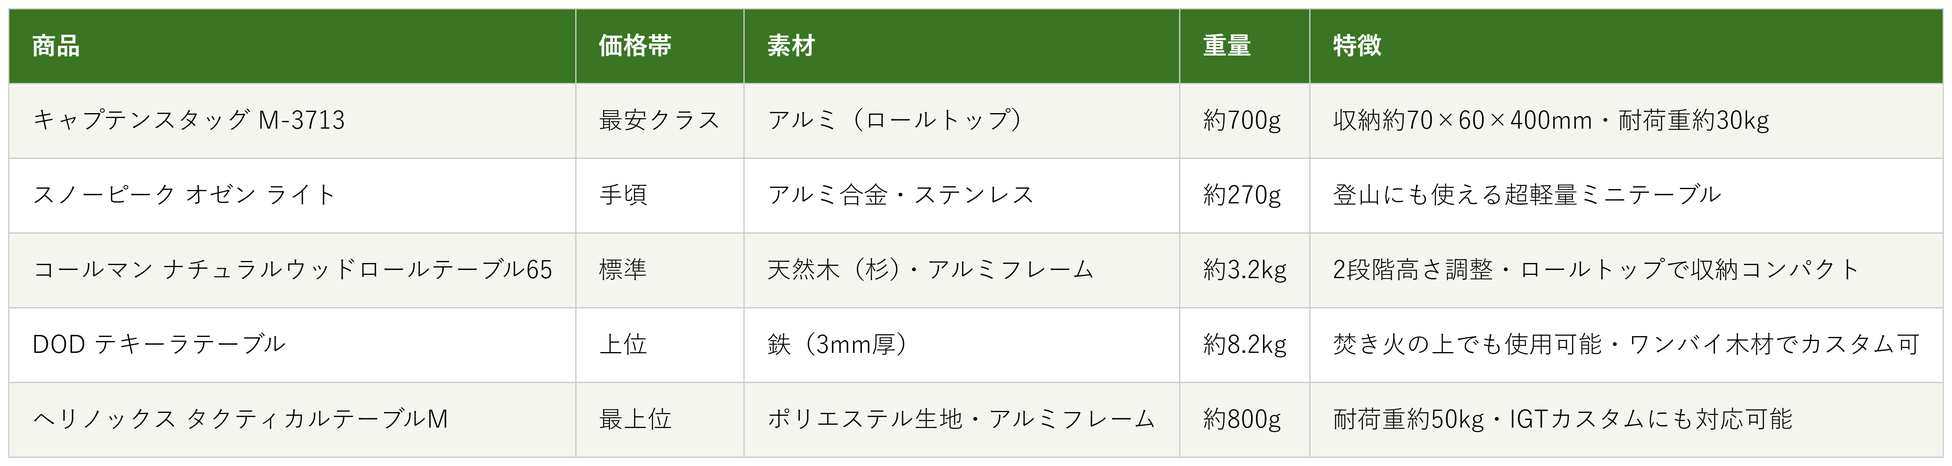
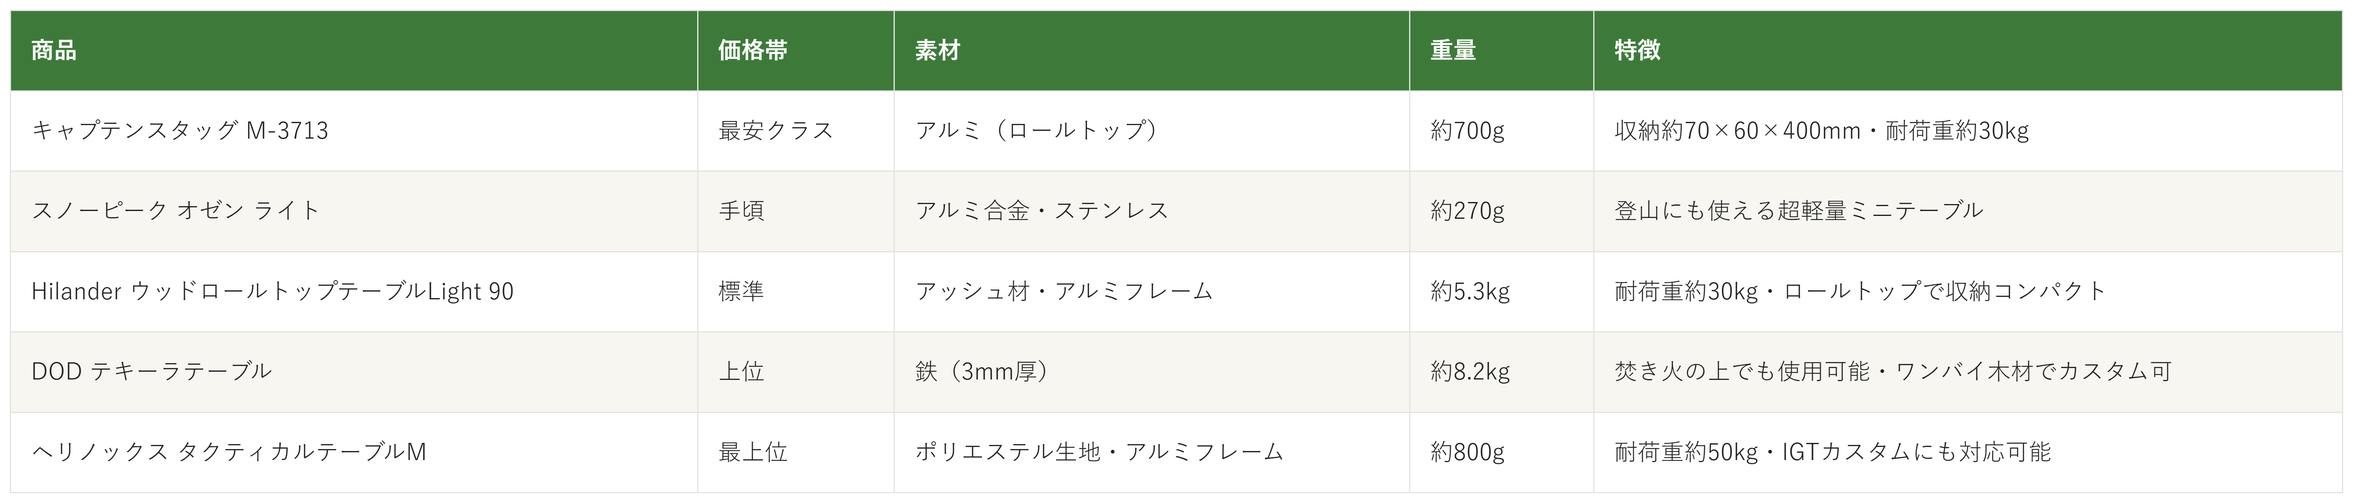
キャンプテーブル記事: 在庫切れ2商品を差し替え（キャプテンスタッグM-3713は新ASIN、コールマン→Hilander）

diff --git a/articles/research-camptable.html b/articles/research-camptable.html
@@ -303,12 +303,12 @@ a{color:var(--article-link)}
   <span>低評価レビューも確認済み</span>
 </div>
 
-<nav id="purpose-picks" class="purpose-nav" aria-label="目的別の商品目次"><div class="purpose-heading"><h2>目的から選ぶ</h2><span>気になる商品へ、そのまま移動</span></div><div class="purpose-links"><a href="#yasusa"><span class="purpose-number">01</span><strong>安さ重視</strong><span class="purpose-product">キャプテンスタッグ M-3713</span><span class="purpose-arrow" aria-hidden="true">↗</span></a><a href="#karui"><span class="purpose-number">02</span><strong>軽さ・携帯性</strong><span class="purpose-product">スノーピーク オゼン ライト</span><span class="purpose-arrow" aria-hidden="true">↗</span></a><a href="#teiban"><span class="purpose-number">03</span><strong>定番の雰囲気重視</strong><span class="purpose-product">コールマン ナチュラルウッドロールテーブル65</span><span class="purpose-arrow" aria-hidden="true">↗</span></a><a href="#takibi"><span class="purpose-number">04</span><strong>焚き火・カスタム</strong><span class="purpose-product">DOD テキーラテーブル</span><span class="purpose-arrow" aria-hidden="true">↗</span></a><a href="#honkaku"><span class="purpose-number">05</span><strong>本格派の軽さ</strong><span class="purpose-product">ヘリノックス タクティカルテーブルM</span><span class="purpose-arrow" aria-hidden="true">↗</span></a></div></nav>
-<section class="conclusion-box pick-carousel" id="quick-picks" aria-label="目的別のおすすめ5商品" aria-roledescription="カルーセル"><div class="pick-header"><h2>結論から先に言うと：</h2><p>価格・素材・持ち運びやすさ、何を優先するかで1台を。</p></div><div class="pick-track" tabindex="0" aria-label="商品スライド。左右キーでも切り替えできます"><article class="pick-slide" aria-label="1 / 5：キャプテンスタッグ M-3713"><div class="pick-copy"><span class="pick-number">01 / 05</span><p class="pick-reason">安さ重視なら</p><h3>キャプテンスタッグ M-3713</h3><a class="pick-detail" href="#yasusa">向き・不向きも詳しく見る ↗</a></div><div class="pick-product"><img src="research-camptable/01_captainstag-m3713.jpg" alt="キャプテンスタッグ M-3713" loading="lazy"><a class="pick-amazon" href="https://www.amazon.co.jp/dp/B07VM6PVDW?tag=miitobow-22" target="_blank" rel="noopener sponsored" aria-label="キャプテンスタッグ M-3713をAmazonで見る">Amazonで見る <span aria-hidden="true">↗</span></a></div></article>
+<nav id="purpose-picks" class="purpose-nav" aria-label="目的別の商品目次"><div class="purpose-heading"><h2>目的から選ぶ</h2><span>気になる商品へ、そのまま移動</span></div><div class="purpose-links"><a href="#yasusa"><span class="purpose-number">01</span><strong>安さ重視</strong><span class="purpose-product">キャプテンスタッグ M-3713</span><span class="purpose-arrow" aria-hidden="true">↗</span></a><a href="#karui"><span class="purpose-number">02</span><strong>軽さ・携帯性</strong><span class="purpose-product">スノーピーク オゼン ライト</span><span class="purpose-arrow" aria-hidden="true">↗</span></a><a href="#teiban"><span class="purpose-number">03</span><strong>定番の雰囲気重視</strong><span class="purpose-product">Hilander ウッドロールトップテーブルLight 90</span><span class="purpose-arrow" aria-hidden="true">↗</span></a><a href="#takibi"><span class="purpose-number">04</span><strong>焚き火・カスタム</strong><span class="purpose-product">DOD テキーラテーブル</span><span class="purpose-arrow" aria-hidden="true">↗</span></a><a href="#honkaku"><span class="purpose-number">05</span><strong>本格派の軽さ</strong><span class="purpose-product">ヘリノックス タクティカルテーブルM</span><span class="purpose-arrow" aria-hidden="true">↗</span></a></div></nav>
+<section class="conclusion-box pick-carousel" id="quick-picks" aria-label="目的別のおすすめ5商品" aria-roledescription="カルーセル"><div class="pick-header"><h2>結論から先に言うと：</h2><p>価格・素材・持ち運びやすさ、何を優先するかで1台を。</p></div><div class="pick-track" tabindex="0" aria-label="商品スライド。左右キーでも切り替えできます"><article class="pick-slide" aria-label="1 / 5：キャプテンスタッグ M-3713"><div class="pick-copy"><span class="pick-number">01 / 05</span><p class="pick-reason">安さ重視なら</p><h3>キャプテンスタッグ M-3713</h3><a class="pick-detail" href="#yasusa">向き・不向きも詳しく見る ↗</a></div><div class="pick-product"><img src="research-camptable/01_captainstag-m3713.jpg" alt="キャプテンスタッグ M-3713" loading="lazy"><a class="pick-amazon" href="https://www.amazon.co.jp/dp/B0H5QWJCN8?tag=miitobow-22" target="_blank" rel="noopener sponsored" aria-label="キャプテンスタッグ M-3713をAmazonで見る">Amazonで見る <span aria-hidden="true">↗</span></a></div></article>
 <article class="pick-slide" aria-label="2 / 5：スノーピーク オゼン ライト"><div class="pick-copy"><span class="pick-number">02 / 05</span><p class="pick-reason">軽さ・携帯性なら</p><h3>スノーピーク オゼン ライト</h3><a class="pick-detail" href="#karui">向き・不向きも詳しく見る ↗</a></div><div class="pick-product"><img src="research-camptable/02_snowpeak-ozenlight.jpg" alt="スノーピーク オゼン ライト" loading="lazy"><a class="pick-amazon" href="https://www.amazon.co.jp/dp/B0CWD3QL5H?tag=miitobow-22" target="_blank" rel="noopener sponsored" aria-label="スノーピーク オゼン ライトをAmazonで見る">Amazonで見る <span aria-hidden="true">↗</span></a></div></article>
-<article class="pick-slide" aria-label="3 / 5：コールマン ナチュラルウッドロールテーブル65"><div class="pick-copy"><span class="pick-number">03 / 05</span><p class="pick-reason">定番の雰囲気重視なら</p><h3>コールマン ナチュラルウッドロールテーブル65</h3><a class="pick-detail" href="#teiban">向き・不向きも詳しく見る ↗</a></div><div class="pick-product"><img src="research-camptable/03_coleman-naturalwood65.jpg" alt="コールマン ナチュラルウッドロールテーブル65" loading="lazy"><a class="pick-amazon" href="https://www.amazon.co.jp/dp/B0BSKX6QNG?tag=miitobow-22" target="_blank" rel="noopener sponsored" aria-label="コールマン ナチュラルウッドロールテーブル65をAmazonで見る">Amazonで見る <span aria-hidden="true">↗</span></a></div></article>
+<article class="pick-slide" aria-label="3 / 5：Hilander ウッドロールトップテーブルLight 90"><div class="pick-copy"><span class="pick-number">03 / 05</span><p class="pick-reason">定番の雰囲気重視なら</p><h3>Hilander ウッドロールトップテーブルLight 90</h3><a class="pick-detail" href="#teiban">向き・不向きも詳しく見る ↗</a></div><div class="pick-product"><img src="research-camptable/03_hilander-woodroll90.jpg" alt="Hilander ウッドロールトップテーブルLight 90" loading="lazy"><a class="pick-amazon" href="https://www.amazon.co.jp/dp/B0DW1GP6LD?tag=miitobow-22" target="_blank" rel="noopener sponsored" aria-label="Hilander ウッドロールトップテーブルLight 90をAmazonで見る">Amazonで見る <span aria-hidden="true">↗</span></a></div></article>
 <article class="pick-slide" aria-label="4 / 5：DOD テキーラテーブル"><div class="pick-copy"><span class="pick-number">04 / 05</span><p class="pick-reason">焚き火・カスタムなら</p><h3>DOD テキーラテーブル</h3><a class="pick-detail" href="#takibi">向き・不向きも詳しく見る ↗</a></div><div class="pick-product"><img src="research-camptable/04_dod-tequila.jpg" alt="DOD テキーラテーブル" loading="lazy"><a class="pick-amazon" href="https://www.amazon.co.jp/dp/B08VJ12DNW?tag=miitobow-22" target="_blank" rel="noopener sponsored" aria-label="DOD テキーラテーブルをAmazonで見る">Amazonで見る <span aria-hidden="true">↗</span></a></div></article>
-<article class="pick-slide" aria-label="5 / 5：ヘリノックス タクティカルテーブルM"><div class="pick-copy"><span class="pick-number">05 / 05</span><p class="pick-reason">本格派の軽さなら</p><h3>ヘリノックス タクティカルテーブルM</h3><a class="pick-detail" href="#honkaku">向き・不向きも詳しく見る ↗</a></div><div class="pick-product"><img src="research-camptable/05_helinox-tactical-m.jpg" alt="ヘリノックス タクティカルテーブルM" loading="lazy"><a class="pick-amazon" href="https://www.amazon.co.jp/dp/B071Y6Q1TS?tag=miitobow-22" target="_blank" rel="noopener sponsored" aria-label="ヘリノックス タクティカルテーブルMをAmazonで見る">Amazonで見る <span aria-hidden="true">↗</span></a></div></article></div><div class="pick-controls" hidden><button type="button" class="pick-prev" aria-label="前の商品">←</button><div class="pick-dots"><button type="button" data-pick="0" aria-label="キャプテンスタッグ M-3713を表示" aria-current="true">01</button><button type="button" data-pick="1" aria-label="スノーピーク オゼン ライトを表示">02</button><button type="button" data-pick="2" aria-label="コールマン ナチュラルウッドロールテーブル65を表示">03</button><button type="button" data-pick="3" aria-label="DOD テキーラテーブルを表示">04</button><button type="button" data-pick="4" aria-label="ヘリノックス タクティカルテーブルMを表示">05</button></div><button type="button" class="pick-next" aria-label="次の商品">→</button></div><p class="pick-hint">横にスワイプして、5商品を見比べる</p></section>
+<article class="pick-slide" aria-label="5 / 5：ヘリノックス タクティカルテーブルM"><div class="pick-copy"><span class="pick-number">05 / 05</span><p class="pick-reason">本格派の軽さなら</p><h3>ヘリノックス タクティカルテーブルM</h3><a class="pick-detail" href="#honkaku">向き・不向きも詳しく見る ↗</a></div><div class="pick-product"><img src="research-camptable/05_helinox-tactical-m.jpg" alt="ヘリノックス タクティカルテーブルM" loading="lazy"><a class="pick-amazon" href="https://www.amazon.co.jp/dp/B071Y6Q1TS?tag=miitobow-22" target="_blank" rel="noopener sponsored" aria-label="ヘリノックス タクティカルテーブルMをAmazonで見る">Amazonで見る <span aria-hidden="true">↗</span></a></div></article></div><div class="pick-controls" hidden><button type="button" class="pick-prev" aria-label="前の商品">←</button><div class="pick-dots"><button type="button" data-pick="0" aria-label="キャプテンスタッグ M-3713を表示" aria-current="true">01</button><button type="button" data-pick="1" aria-label="スノーピーク オゼン ライトを表示">02</button><button type="button" data-pick="2" aria-label="Hilander ウッドロールトップテーブルLight 90を表示">03</button><button type="button" data-pick="3" aria-label="DOD テキーラテーブルを表示">04</button><button type="button" data-pick="4" aria-label="ヘリノックス タクティカルテーブルMを表示">05</button></div><button type="button" class="pick-next" aria-label="次の商品">→</button></div><p class="pick-hint">横にスワイプして、5商品を見比べる</p></section>
 
 <h2>選び方の基準は3つ</h2>
 <p>調べてわかったのは、基準は3つでした。</p>
@@ -333,11 +333,11 @@ a{color:var(--article-link)}
     <li>アルミ合金・ステンレス製・約270g</li>
     <li>登山にも使える超軽量ミニテーブル</li>
   </ul>
-  <h3>コールマン ナチュラルウッドロールテーブル65</h3>
+  <h3>Hilander ウッドロールトップテーブルLight 90</h3>
   <ul>
     <li>標準</li>
-    <li>天然木（杉）・アルミフレーム・約3.2kg</li>
-    <li>2段階高さ調整・ロールトップで収納コンパクト</li>
+    <li>アッシュ材・アルミフレーム・約5.3kg</li>
+    <li>耐荷重約30kg・ロールトップで収納コンパクト</li>
   </ul>
   <h3>DOD テキーラテーブル</h3>
   <ul>
@@ -353,7 +353,7 @@ a{color:var(--article-link)}
   </ul>
 </div>
 
-<section class="product-feature" id="yasusa" aria-labelledby="yasusa-title"><div class="product-stage"><img class="product-img" loading="lazy" src="research-camptable/01_captainstag-m3713.jpg" alt="キャプテンスタッグ M-3713"><div class="product-overlay"><div class="product-copy"><span class="product-index">CAMPTABLE / 01</span><h2 class="product-situation" id="yasusa-title">とにかく安く、<br>まず1台試したい人へ</h2><div class="product-name-row"><p class="product-name">キャプテンスタッグ M-3713</p><span class="price-badge">最安クラス</span></div><div class="trust-line"><p>キャプテンスタッグ アルミロールテーブル〈コンパクト〉M-3713は、まずキャンプテーブルを1台試したい人に最も向く1台です。天板はアルミ製のロールトップ構造で、本体と脚が一体化した組み立てやすい設計です。</p><p>組み立て時サイズは約400×290×120mm、重量は約700g。専用の収納ケースが付属し、耐荷重は約30kgです。</p></div><a class="buy-link" href="https://www.amazon.co.jp/dp/B07VM6PVDW?tag=miitobow-22" target="_blank" rel="noopener">Amazonで見る<span class="arrow">→</span></a></div></div></div><div class="product-details"><div class="fit-box">
+<section class="product-feature" id="yasusa" aria-labelledby="yasusa-title"><div class="product-stage"><img class="product-img" loading="lazy" src="research-camptable/01_captainstag-m3713.jpg" alt="キャプテンスタッグ M-3713"><div class="product-overlay"><div class="product-copy"><span class="product-index">CAMPTABLE / 01</span><h2 class="product-situation" id="yasusa-title">とにかく安く、<br>まず1台試したい人へ</h2><div class="product-name-row"><p class="product-name">キャプテンスタッグ M-3713</p><span class="price-badge">最安クラス</span></div><div class="trust-line"><p>キャプテンスタッグ アルミロールテーブル〈コンパクト〉M-3713は、まずキャンプテーブルを1台試したい人に最も向く1台です。天板はアルミ製のロールトップ構造で、本体と脚が一体化した組み立てやすい設計です。</p><p>組み立て時サイズは約400×290×120mm、重量は約700g。専用の収納ケースが付属し、耐荷重は約30kgです。</p></div><a class="buy-link" href="https://www.amazon.co.jp/dp/B0H5QWJCN8?tag=miitobow-22" target="_blank" rel="noopener">Amazonで見る<span class="arrow">→</span></a></div></div></div><div class="product-details"><div class="fit-box">
   <div class="col good"><b>向いてる人</b><ul><li>価格を抑えてサブテーブルを1つ持ちたい人</li><li>まずはキャンプテーブルを試したい人</li></ul></div>
   <div class="col bad"><b>向いてない人</b><ul><li>徒歩・登山でさらに軽量化したい人</li></ul></div>
 </div>
@@ -366,7 +366,7 @@ a{color:var(--article-link)}
 <p class="spec-text">キャプテンスタッグ アルミロール<br>テーブル M-3713は、まずキャンプ<br>テーブルを試したい人に向く1台です。</p>
 <p class="spec-text">天板はアルミ製のロールトップ構造<br>で、組み立てやすい設計です。</p>
 <p class="spec-text">重量は約700g、専用ケース付き<br>で耐荷重は約30kgです。</p>
-<a class="buy-link" href="https://www.amazon.co.jp/dp/B07VM6PVDW?tag=miitobow-22" target="_blank" rel="noopener">Amazonで見る<span class="arrow">→</span></a>
+<a class="buy-link" href="https://www.amazon.co.jp/dp/B0H5QWJCN8?tag=miitobow-22" target="_blank" rel="noopener">Amazonで見る<span class="arrow">→</span></a>
 
 <section class="product-feature" id="karui" aria-labelledby="karui-title"><div class="product-stage"><img class="product-img" loading="lazy" src="research-camptable/02_snowpeak-ozenlight.jpg" alt="スノーピーク オゼン ライト"><div class="product-overlay"><div class="product-copy"><span class="product-index">CAMPTABLE / 02</span><h2 class="product-situation" id="karui-title">とにかく軽く、<br>コンパクトに持ち歩きたい人へ</h2><div class="product-name-row"><p class="product-name">スノーピーク オゼン ライト</p><span class="price-badge">手頃</span></div><div class="trust-line"><p>スノーピーク オゼン ライトは、軽さ・携帯性を最優先したい人に最も向く1台です。アルミ合金とステンレス鋼を組み合わせ、本体重量はわずか約270gに抑えられています。</p><p>使用時サイズは約297×210×85mm。登山や徒歩キャンプなど、荷物を極力減らしたいシーンでも持ち運びやすいのが特長です。</p></div><a class="buy-link" href="https://www.amazon.co.jp/dp/B0CWD3QL5H?tag=miitobow-22" target="_blank" rel="noopener">Amazonで見る<span class="arrow">→</span></a></div></div></div><div class="product-details"><div class="fit-box">
   <div class="col good"><b>向いてる人</b><ul><li>登山・徒歩キャンプで軽量化したい人</li><li>ソロでコンパクトに持ち歩きたい人</li></ul></div>
@@ -383,20 +383,19 @@ a{color:var(--article-link)}
 <p class="spec-text">使用時サイズは約297×210<br>×85mm、登山にも使えます。</p>
 <a class="buy-link" href="https://www.amazon.co.jp/dp/B0CWD3QL5H?tag=miitobow-22" target="_blank" rel="noopener">Amazonで見る<span class="arrow">→</span></a>
 
-<section class="product-feature" id="teiban" aria-labelledby="teiban-title"><div class="product-stage"><img class="product-img" loading="lazy" src="research-camptable/03_coleman-naturalwood65.jpg" alt="コールマン ナチュラルウッドロールテーブル65"><div class="product-overlay"><div class="product-copy"><span class="product-index">CAMPTABLE / 03</span><h2 class="product-situation" id="teiban-title">雰囲気の良さも<br>大事にしたい人へ</h2><div class="product-name-row"><p class="product-name">コールマン ナチュラルウッドロールテーブル65</p><span class="price-badge">標準</span></div><div class="trust-line"><p>コールマン ナチュラルウッドロールテーブル65は、雰囲気の良さも大事にしたい人に最も向く1台です。天然木（杉）の天板とアルミフレームを組み合わせ、キャンプサイトを落ち着いた雰囲気にしてくれます。</p><p>高さは2段階（約40cm／約70cm）に調整可能。使用時サイズは約65×70cm、天板はロールして収納できるためコンパクトに持ち運べます。</p></div><a class="buy-link" href="https://www.amazon.co.jp/dp/B0BSKX6QNG?tag=miitobow-22" target="_blank" rel="noopener">Amazonで見る<span class="arrow">→</span></a></div></div></div><div class="product-details"><div class="fit-box">
-  <div class="col good"><b>向いてる人</b><ul><li>天然木の雰囲気を楽しみたい人</li><li>ロースタイル・ハイスタイル両方使いたい人</li></ul></div>
-  <div class="col bad"><b>向いてない人</b><ul><li>設営・撤収をとにかく素早く済ませたい人</li></ul></div>
+<section class="product-feature" id="teiban" aria-labelledby="teiban-title"><div class="product-stage"><img class="product-img" loading="lazy" src="research-camptable/03_hilander-woodroll90.jpg" alt="Hilander ウッドロールトップテーブルLight 90"><div class="product-overlay"><div class="product-copy"><span class="product-index">CAMPTABLE / 03</span><h2 class="product-situation" id="teiban-title">雰囲気の良さも<br>大事にしたい人へ</h2><div class="product-name-row"><p class="product-name">Hilander ウッドロールトップテーブルLight 90</p><span class="price-badge">標準</span></div><div class="trust-line"><p>Hilander ウッドロールトップテーブルLight 90は、雰囲気の良さも大事にしたい人に最も向く1台です。アッシュ材を使った木目の天板とX字型のアルミフレームを組み合わせ、キャンプサイトを落ち着いた雰囲気にしてくれます。</p><p>サイズは約W90×H45×D60cm、重量は約5.3kg、耐荷重は約30kg。天板はロールして専用バッグに収納できます。</p></div><a class="buy-link" href="https://www.amazon.co.jp/dp/B0DW1GP6LD?tag=miitobow-22" target="_blank" rel="noopener">Amazonで見る<span class="arrow">→</span></a></div></div></div><div class="product-details"><div class="fit-box">
+  <div class="col good"><b>向いてる人</b><ul><li>天然木の雰囲気を楽しみたい人</li><li>4人程度で使えるテーブルが欲しい人</li></ul></div>
+  <div class="col bad"><b>向いてない人</b><ul><li>徒歩・ソロキャンプでより軽い1台が欲しい人</li></ul></div>
 </div>
 <p class="conclusion-line"><span class="decision-label">選ぶ決め手</span><span class="decision-text">雰囲気の良さも大事にしたい人は、これがいちばん外しにくいです。</span></p></div></section>
 <div class="review-voice">
   <b>低評価レビューも見ました</b>
-  高さを低く変更する際にポールを外す必要があり手間だという指摘がありました。ロールテーブル構造のため天板に隙間ができる、脚付きのコンロ等を置く配置によってはぐらつく場合があるという声もありました。
-  <p class="src">参考：ユーザーブログ・レビューを基にした集約</p>
+  今回の検索範囲では目立った低評価の指摘は見当たりませんでした。
 </div>
-<p class="spec-text">コールマン ナチュラルウッドロール<br>テーブル65は、雰囲気の良さも<br>大事にしたい人に最も向く1台です。</p>
-<p class="spec-text">天然木（杉）の天板とアルミフレーム<br>で、高さは2段階に調整可能です。</p>
-<p class="spec-text">重量約3.2kg、天板はロール<br>して収納できます。</p>
-<a class="buy-link" href="https://www.amazon.co.jp/dp/B0BSKX6QNG?tag=miitobow-22" target="_blank" rel="noopener">Amazonで見る<span class="arrow">→</span></a>
+<p class="spec-text">Hilander ウッドロールトップ<br>テーブルLight 90は、雰囲気の良さ<br>も大事にしたい人に最も向く1台です。</p>
+<p class="spec-text">アッシュ材の天板とX字型アルミ<br>フレームを組み合わせています。</p>
+<p class="spec-text">重量約5.3kg、天板はロール<br>して専用バッグに収納できます。</p>
+<a class="buy-link" href="https://www.amazon.co.jp/dp/B0DW1GP6LD?tag=miitobow-22" target="_blank" rel="noopener">Amazonで見る<span class="arrow">→</span></a>
 
 <section class="product-feature" id="takibi" aria-labelledby="takibi-title"><div class="product-stage"><img class="product-img" loading="lazy" src="research-camptable/04_dod-tequila.jpg" alt="DOD テキーラテーブル"><div class="product-overlay"><div class="product-copy"><span class="product-index">CAMPTABLE / 04</span><h2 class="product-situation" id="takibi-title">焚き火の上でも<br>気にせず使いたい人へ</h2><div class="product-name-row"><p class="product-name">DOD テキーラテーブル</p><span class="price-badge">上位</span></div><div class="trust-line"><p>DOD テキーラテーブルは、焚き火の上でも気にせず使いたい人に最も向く1台です。天板は3mm厚の鉄製で、焚き火やBBQの炎に当たっても塗装が剥がれにくい特殊コーティングが施されています。</p><p>使用時サイズは約1,150×492×410mm、重量約8.2kg、耐荷重は約40kgです。ワンバイ木材を追加することで、形やサイズをカスタムできます。</p></div><a class="buy-link" href="https://www.amazon.co.jp/dp/B08VJ12DNW?tag=miitobow-22" target="_blank" rel="noopener">Amazonで見る<span class="arrow">→</span></a></div></div></div><div class="product-details"><div class="fit-box">
   <div class="col good"><b>向いてる人</b><ul><li>焚き火の上でも使えるテーブルが欲しい人</li><li>木材を追加して自分なりにカスタムしたい人</li></ul></div>
@@ -440,6 +439,7 @@ a{color:var(--article-link)}
 <p>ユニフレーム 焚き火テーブルは、DODテキーラテーブルと特徴が重複するため見送りました。</p>
 <p>Moon Lenceアウトドアテーブル（約465g）は、スノーピーク オゼン ライトと特徴が重複するため見送りました。</p>
 <p>DesertFoxキャンプテーブル（幅180cm）は、今回の5商品の価格帯レンジから外れる大型ファミリー向けのため見送りました。</p>
+<p>※2026-10-02追記：当初候補だったキャプテンスタッグ M-3713とコールマン ナチュラルウッドロールテーブル65が在庫切れとなったため、「安さ重視」枠は同型番M-3713の再出品（新ASIN）に、「定番の雰囲気重視」枠はHilander ウッドロールトップテーブルLight 90（同価格帯の木目調ロールテーブル）に差し替えています。</p>
 
 <h2>低評価の商品も見ました</h2>
 <p>5商品それぞれについて、個別にWebSearchで低評価レビューを確認しました。個別レビュー本文の真偽までは検証できないため、機械的に確認できた範囲の傾向だけを書いています。</p>
@@ -451,9 +451,9 @@ a{color:var(--article-link)}
 <p>また、DODテキーラテーブルのように「焚き火の上でも使える」という発想自体が、従来の折りたたみテーブルとは根本的に違う体験だと分かりました。素材（アルミ/木製/鉄製/タクティカル）ごとに、向いているシーンがまったく違います。</p>
 
 <h2>迷ったらこれ</h2>
-<img class="product-img" src="research-camptable/03_coleman-naturalwood65.jpg" alt="コールマン ナチュラルウッドロールテーブル65">
-<p>ここまで読んでもまだ迷ったら、価格・雰囲気・使いやすさのバランスが取れたコールマン ナチュラルウッドロールテーブル65が、初めての1台として外しにくいです。</p>
-<a class="buy-link" href="https://www.amazon.co.jp/dp/B0BSKX6QNG?tag=miitobow-22" target="_blank" rel="noopener">Amazonで見る<span class="arrow">→</span></a>
+<img class="product-img" src="research-camptable/03_hilander-woodroll90.jpg" alt="Hilander ウッドロールトップテーブルLight 90">
+<p>ここまで読んでもまだ迷ったら、価格・雰囲気・使いやすさのバランスが取れたHilander ウッドロールトップテーブルLight 90が、初めての1台として外しにくいです。</p>
+<a class="buy-link" href="https://www.amazon.co.jp/dp/B0DW1GP6LD?tag=miitobow-22" target="_blank" rel="noopener">Amazonで見る<span class="arrow">→</span></a>
 
 <h2>よくある質問</h2>
 <div class="faq-item"><p>Q. アルミ製と木製、どちらを選べばいいですか。<br>A. 軽さ・価格を優先するならアルミ製、雰囲気や見た目の良さを優先するなら木製が向いています。木製は天然木ならではの質感がありますが、その分重量は増えます。</p></div>
@@ -482,12 +482,12 @@ a{color:var(--article-link)}
   <li>価格.com キャンプテーブル・アウトドアテーブル 人気売れ筋ランキング：<a href="https://search.kakaku.com/%E3%82%AD%E3%83%A3%E3%83%B3%E3%83%97%E3%83%86%E3%83%BC%E3%83%96%E3%83%AB/" target="_blank" rel="noopener">kakaku.com</a></li>
   <li>キャプテンスタッグ公式 アルミロールテーブル〈コンパクト〉M-3713：<a href="https://www.captainstag.net/products/M-3713.html" target="_blank" rel="noopener">captainstag.net</a></li>
   <li>スノーピーク公式 オゼン ライト：<a href="https://ec.snowpeak.co.jp/snowpeak/ja/p/18779" target="_blank" rel="noopener">ec.snowpeak.co.jp</a></li>
-  <li>コールマン公式 ナチュラルウッドロールテーブル クラシック(65)：<a href="https://ec.coleman.co.jp/item/IS00060N04132.html" target="_blank" rel="noopener">ec.coleman.co.jp</a></li>
+  <li>Hilander公式 ウッドロールトップテーブルLight 90：<a href="https://www.hilander-outdoor.jp/products/7001265" target="_blank" rel="noopener">hilander-outdoor.jp</a></li>
   <li>DOD公式 テキーラテーブル TB4-746-BK：<a href="https://www.dod.camp/product/tb4_746_bk/" target="_blank" rel="noopener">dod.camp</a></li>
   <li>Helinox公式 タクティカルテーブルM：<a href="https://helinox.co.jp/product/tactical/table" target="_blank" rel="noopener">helinox.co.jp</a></li>
-  <li>Amazon.co.jp キャプテンスタッグ M-3713：<a href="https://www.amazon.co.jp/dp/B07VM6PVDW" target="_blank" rel="noopener">amazon.co.jp</a></li>
+  <li>Amazon.co.jp キャプテンスタッグ M-3713：<a href="https://www.amazon.co.jp/dp/B0H5QWJCN8" target="_blank" rel="noopener">amazon.co.jp</a></li>
   <li>Amazon.co.jp スノーピーク オゼン ライト：<a href="https://www.amazon.co.jp/dp/B0CWD3QL5H" target="_blank" rel="noopener">amazon.co.jp</a></li>
-  <li>Amazon.co.jp コールマン ナチュラルウッドロールテーブル65：<a href="https://www.amazon.co.jp/dp/B0BSKX6QNG" target="_blank" rel="noopener">amazon.co.jp</a></li>
+  <li>Amazon.co.jp Hilander ウッドロールトップテーブルLight 90：<a href="https://www.amazon.co.jp/dp/B0DW1GP6LD" target="_blank" rel="noopener">amazon.co.jp</a></li>
   <li>Amazon.co.jp DOD テキーラテーブル：<a href="https://www.amazon.co.jp/dp/B08VJ12DNW" target="_blank" rel="noopener">amazon.co.jp</a></li>
   <li>Amazon.co.jp ヘリノックス タクティカルテーブルM：<a href="https://www.amazon.co.jp/dp/B071Y6Q1TS" target="_blank" rel="noopener">amazon.co.jp</a></li>
 </ul>
